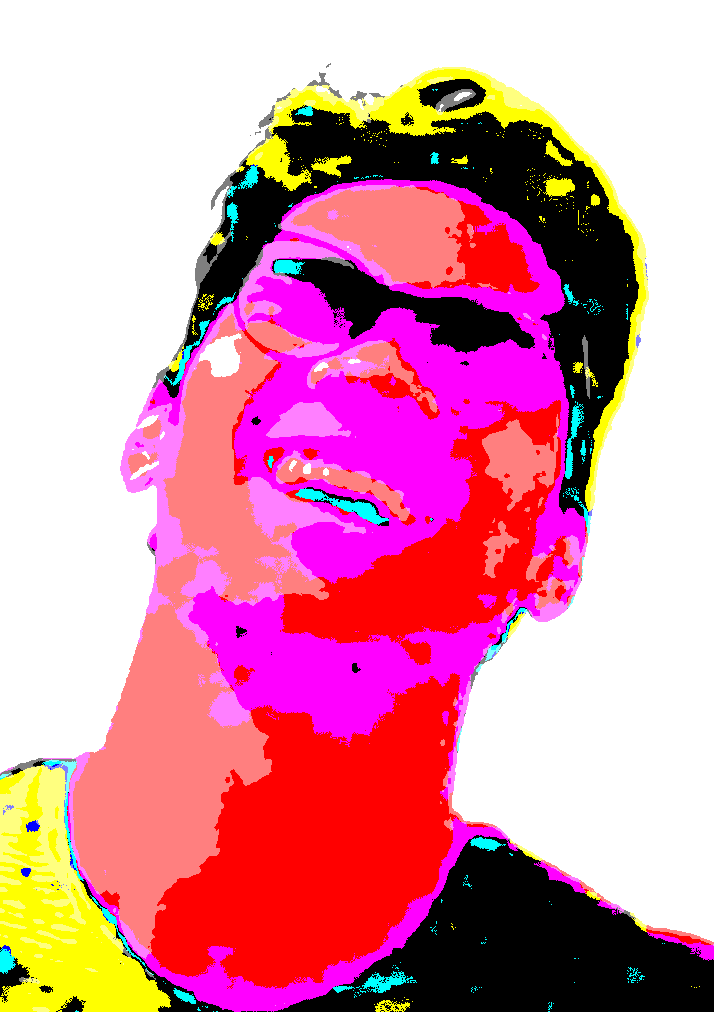
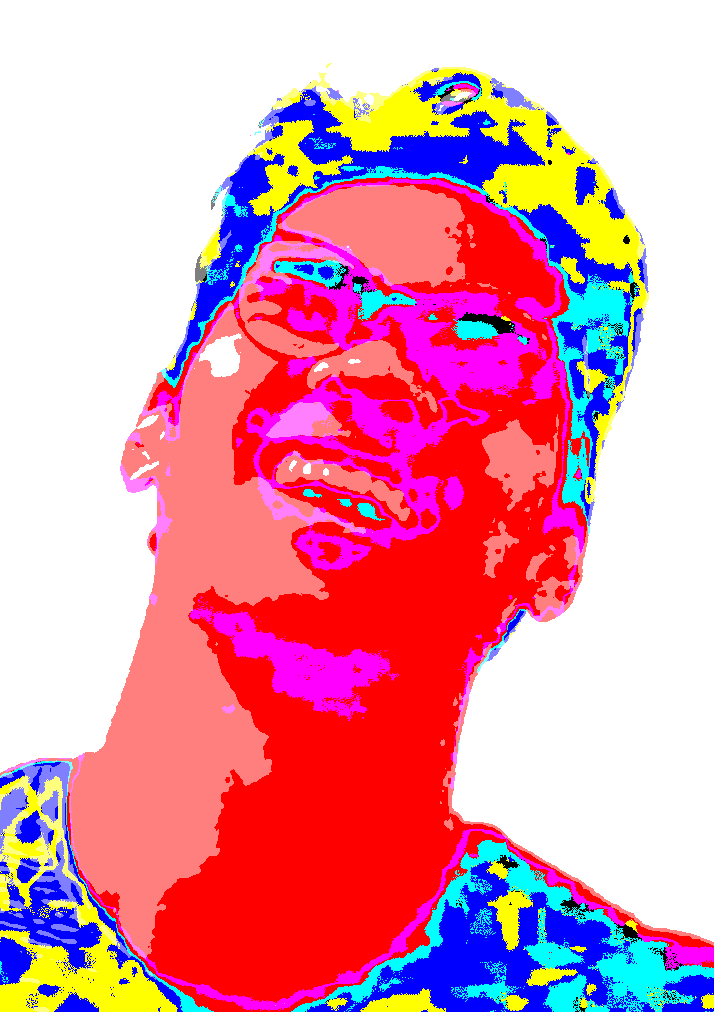
Finished usage

Changed region(s): [[0.0, 0.0613, 1.0, 1.0]]

diff --git a/include/image/AnalyzeImage.hpp b/include/image/AnalyzeImage.hpp
@@ -13,12 +13,12 @@
 
 #define MARGING 7
 
-#define YELLOW sf::Color::Magenta
-#define MAGENTA sf::Color::Cyan
-#define CYAN sf::Color::Yellow
-#define RED sf::Color::Blue
-#define BLUE sf::Color::Green
-#define GREEN sf::Color::Red
+#define YELLOW sf::Color::Yellow
+#define MAGENTA sf::Color::Magenta
+#define CYAN sf::Color::Cyan
+#define RED sf::Color::Red
+#define GREEN sf::Color::Green
+#define BLUE sf::Color::Blue
 
 class AnalyzeImage {
     public:

diff --git a/README.md b/README.md
@@ -89,6 +89,12 @@ And use the `#define + [sf::Color]`to switch colors.
 <img src="assets/results/blueberry.png" alt="BlueBerry">
 <img src="assets/results/whitecastle.png" alt="WhiteCastle">
 
+### BE CAREFUL
+Please close the window normally, don't shut it with CTRL^C if you want to save your image.
+
+
+
+
 <!-- ROADMAP -->
 ## Roadmap
 
